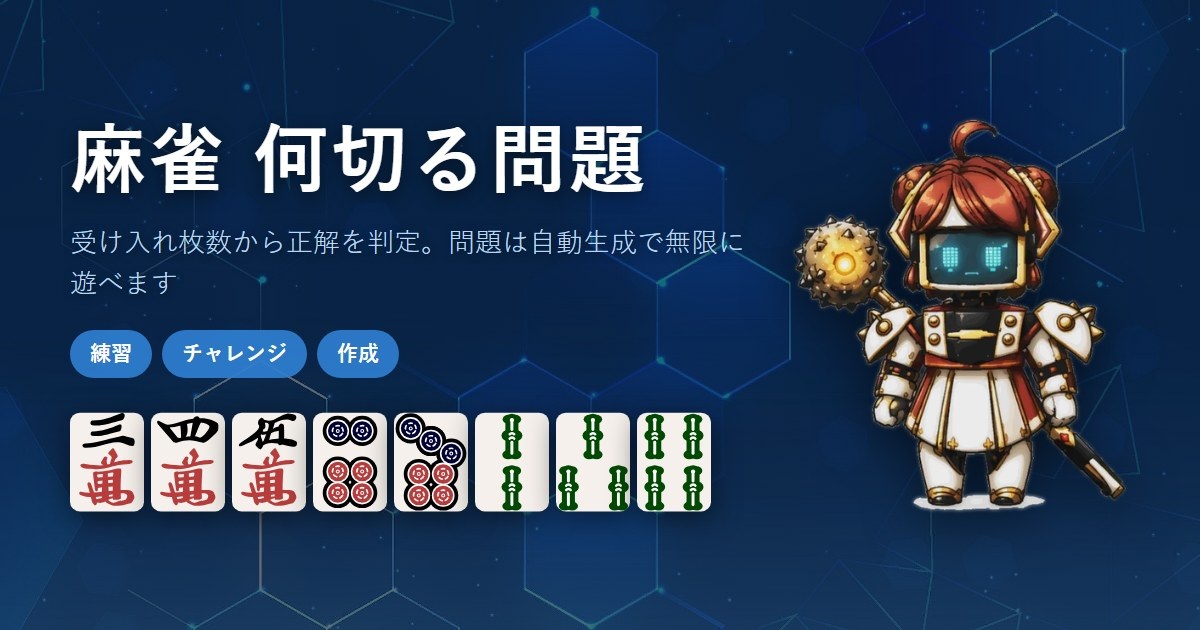
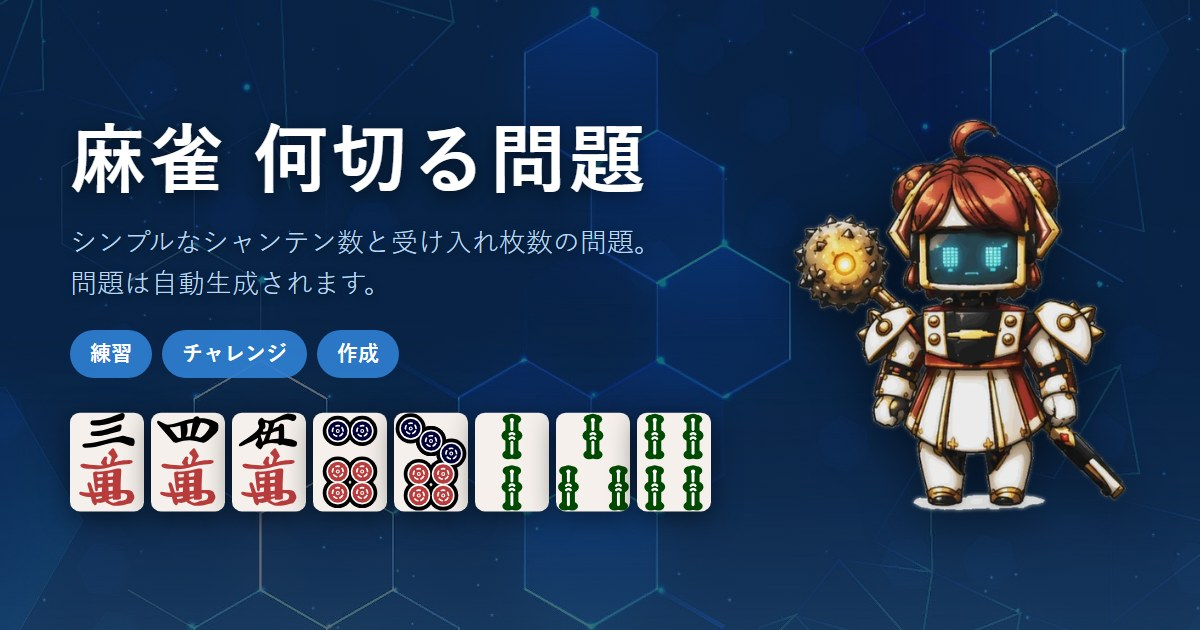
OGPカードとメタタグの説明文を修正

Changed region(s): [[0.0617, 0.3619, 0.6167, 0.4825]]

diff --git a/index.html b/index.html
@@ -4,13 +4,13 @@
 <meta charset="UTF-8">
 <meta name="viewport" content="width=device-width, initial-scale=1">
 <title>麻雀 何切る問題</title>
-<meta name="description" content="受け入れ枚数から正解を判定する何切る問題。問題は自動生成なので何問でも遊べます。">
+<meta name="description" content="シンプルなシャンテン数と受け入れ枚数の問題。問題は自動生成されます。">
 
 <!-- SNS に貼ったときのカード表示 -->
 <meta property="og:type" content="website">
 <meta property="og:site_name" content="麻雀 何切る問題">
 <meta property="og:title" content="麻雀 何切る問題">
-<meta property="og:description" content="受け入れ枚数から正解を判定する何切る問題。問題は自動生成なので何問でも遊べます。">
+<meta property="og:description" content="シンプルなシャンテン数と受け入れ枚数の問題。問題は自動生成されます。">
 <meta property="og:url" content="https://onipoo.github.io/mj-nanikiru/">
 <meta property="og:image" content="https://onipoo.github.io/mj-nanikiru/images/ogp.jpg">
 <meta property="og:image:width" content="1200">
